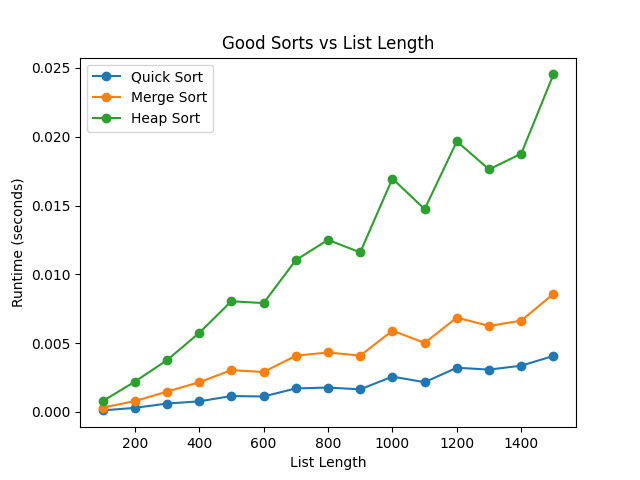
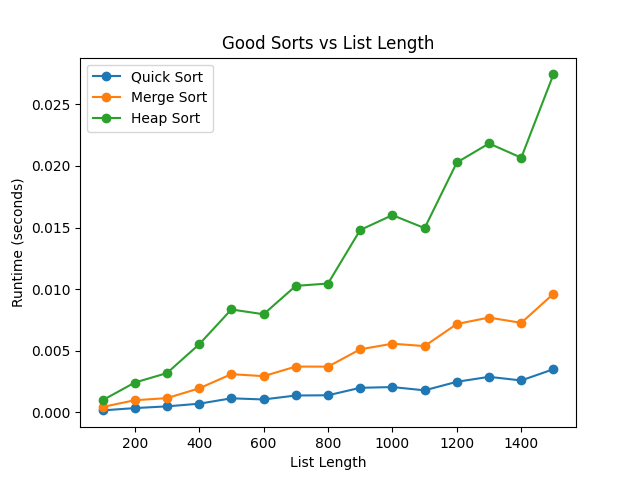
Fixed exp 2 + 5 by increasing list maxes

diff --git a/Lab 1/Experiment 2/Experiment 2.py b/Lab 1/Experiment 2/Experiment 2.py
@@ -117,6 +117,7 @@ def test_allSorts(test_runs, average_runs, increaseList_factor):
         Bubble2_times.append(Bubble2_time_sum / average_runs)
         Selection2_times.append(Selection2_time_sum/ average_runs)
         list_len += increaseList_factor
+        list_max += increaseList_factor
         #print(times)
 
     plt.plot(list_lens, Insertion_times, marker='o')

diff --git a/Lab 1/Experiment 4/Experiment 4.py b/Lab 1/Experiment 4/Experiment 4.py
@@ -38,6 +38,7 @@ def test_allSorts(test_runs, average_runs, increaseList_factor):
         Merge_times.append(Merge_time_sum / average_runs)
         Heap_times.append(Heap_time_sum/ average_runs)
         list_len += increaseList_factor
+        list_max += increaseList_factor
         #print(times)
 
     plt.plot(list_lens, Quick_times, marker='o')
